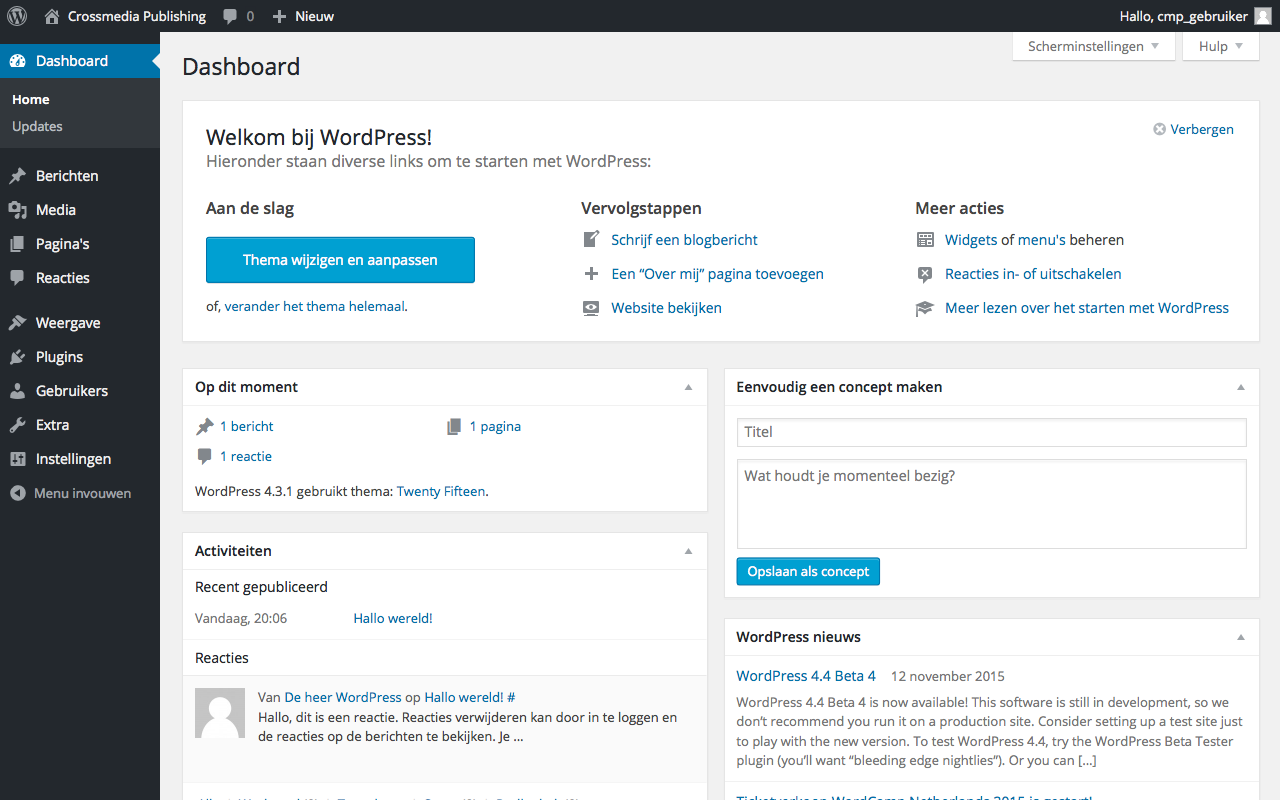
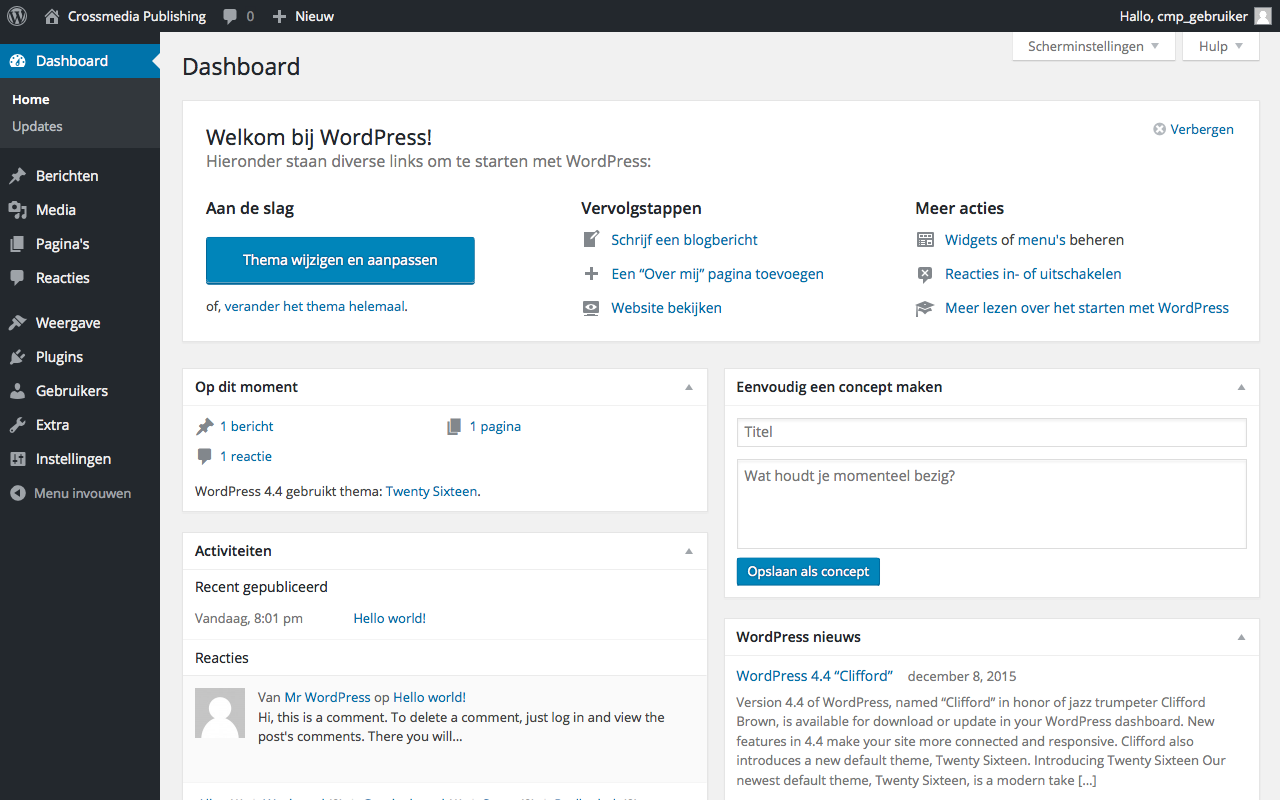
[WIP]

diff --git a/_includes/scripts.html b/_includes/scripts.html
@@ -1,3 +1,3 @@
-<script src="//code.jquery.com/jquery-2.1.4.min.js"></script>
+<script src="//code.jquery.com/jquery-3.0.0-alpha1.min.js"></script>
 <script src="//maxcdn.bootstrapcdn.com/bootstrap/4.0.0-alpha/js/bootstrap.min.js"></script>
 <script src="{{ '/js/main.js' | prepend: site.baseurl }}"></script>

diff --git a/pages/F-A-0_wp_installatie.md b/pages/F-A-0_wp_installatie.md
@@ -29,7 +29,7 @@ Open `Homestead.yaml` met onderstaande opdracht.
 $ artestead edit
 {% endhighlight %}
 
-Verwijder het commentaar (`#`) in de regels onder **Crossmedia Publishing (CMP)**:
+Verwijder de commentaartekens (`#`) in de regels onder **Crossmedia Publishing (CMP)** zodat je dit resultaat krijgt:
 
 {% highlight yaml %}
 {% include_relative _code/wp/installatie/Homestead.00.yaml %}
@@ -42,7 +42,9 @@ Verwijder het commentaar (`#`) in de regels onder **Crossmedia Publishing (CMP)*
 
 ### Opstarten
 
-Start de Vagrant Box op. De eerste keer moet je dit met de optie `--provision` doen zodat de domeinnaam gekoppeld wordt aan de en de map gekoppeld worden
+Start de Vagrant Box op.
+
+De eerste keer moet je dit met de optie `--provision` doen, zodat de domeinnaam `www.cmp.arteveldehogeschool.local` en de map met de broncode aan elkaar gekoppeld worden. Eens die koppeling gebeurd is, mag je de optie `--provision` weglaten.
 
 {% highlight bash %}
 $ artestead up --provision
@@ -58,22 +60,28 @@ vagrant@homestead$ _
 Mappen
 ------
 
-Na het aanmelden op de Vagrant Box gaan we eerst naar de map `Code` die in de thuismap (`~`) staat (als je al in deze map bent mag je `~/` weglaten) met de opdracht `cd` *(Change Directory)*. 
+Na het aanmelden op de Vagrant Box maken we de map `www` voor ons project aan met met de opdracht `mkdir` *(Make Directory)* en de optie `-p` *(parents),* zodat ook de bovenliggende mappen *(Parent Directories)* `Code` en `cmp.arteveldehogeschool.be` aangemaakt worden als die nog niet bestaan.
 
 {% highlight bash %}
-vagrant@homestead$ cd ~/Code/
+vagrant@homestead$ mkdir -p ~/Code/cmp.arteveldehogeschool.local/www/
 {% endhighlight %}
 
-Daarna maken we de map `scripts` aan met de opdracht `mkdir` *(Make Directory)* en de optie `-p` *(parents),* zodat ook de bovenliggende mappen *(Parent Directories)* `www` en `cmp.arteveldehogeschool.be` zo nodig aangemaakt worden:
+Daarna gaan we naar de map met de opdracht `cd` *(Change Directory)*. De **tilde** (`~`) stelt de thuismap voor. Als je al in deze map bent mag je `~/` weglaten. 
+
+Vervolgens maken we de mappen `data` en `scripts` aan.
 
 {% highlight bash %}
-vagrant@homestead$ mkdir -p cmp.arteveldehogeschool.local/www/scripts/
+vagrant@homestead$ cd ~/Code/cmp.arteveldehogeschool.local/www/
+vagrant@homestead$ mkdir data/
+vagrant@homestead$ mkdir scripts/
 {% endhighlight %}
 
-Vervolgens gaan we naar de `www` map:
+Vervolgens gaan we naar de root van ons project en maken een nieuw bestand `README.md` aan met de opdracht `touch`.
+In het nieuwe bestand kunnen we informatie over het project schrijven, zoals bijvoorbeeld wie de auteur is, wat de bedoeling van dit project is en welek stappen we moeten doorlopen om dit project te hosten.
 
 {% highlight bash %}
-vagrant@homestead$ cd cmp.arteveldehogeschool.local/www/
+vagrant@homestead$ cd ~/Code/cmp.arteveldehogeschool.local/
+vagrant@homestead$ touch README.md
 {% endhighlight %}
 
 > ##### **Tip** *:bulb:*{:.pull-left .m-r}
@@ -81,15 +89,23 @@ vagrant@homestead$ cd cmp.arteveldehogeschool.local/www/
 > Gebruik de <kbd>tab</kbd> toets om (bestaande) mapnamen automatisch aan te vullen en de pijltjestoetsen <kbd>up</kbd> of <kbd>down</kbd> om doorheen de CLI-history te gaan!
 {:.alert .alert-info}
 
-Het resultaat (Met het opdracht `vagrant@homestead$ tree -d Code`, maar daarvoor moet je eerst **Tree** installeren met `vagrant@homestead$ sudo apt-get install tree`):
+De **boomstructuur** van mappen en bestanden kan je bekijken met de opdracht `tree`, maar die moet je dan wel eerst installeren met `apt-get` *(Advanced Package Tool)* die via `sudo` *(Super User Do)* uitgevoerd moet worden.
+
+{% highlight bash %}
+vagrant@homestead$ sudo apt-get install tree
+{% endhighlight %}
+
+{% highlight bash %}
+vagrant@homestead$ vagrant@homestead$ tree -d ~/Code
+{% endhighlight %}
 
 > ##### Mappen & Bestanden *:open_file_folder:*{:.pull-left .m-r}
 > ---
 >```
 > cmp.arteveldehogeschool.local/
 > ├── www/
-> │   ├── scripts/
-> │   └── wordpress/
+> │   ├── data/
+> │   └── scripts/
 > └── README.md
 >```
 {:.card .card-block}
@@ -97,26 +113,28 @@ Het resultaat (Met het opdracht `vagrant@homestead$ tree -d Code`, maar daarvoor
 Database
 --------
 
+WordPress gebruikt een **MySQL**-database. We gaan met behulp van een aantal Bash-scripts een databasegebruiker en een database aanmaken op de MySQL-server.
+
+### Scripts en instellingen
+
 > ##### Mappen & Bestanden *:open_file_folder:*{:.pull-left .m-r}
 > ---
 >```
 > cmp.arteveldehogeschool.local/
 > ├── www/
-> │   ├── scripts/
-> │   │   ├── db_backup.sh
-> │   │   ├── db_drop.sh
-> │   │   ├── db_init.sh
-> │   │   ├── db_reset.sh
-> │   │   ├── db_restore.sh
-> │   │   └── settings
-> │   └── wordpress/
+> │   ├── data/
+> │   └── scripts/
+> │       ├── db_backup.sh
+> │       ├── db_drop.sh
+> │       ├── db_init.sh
+> │       ├── db_reset.sh
+> │       ├── db_restore.sh
+> │       └── settings
 > └── README.md
 >```
 {:.card .card-block}
 
-WordPress gebruikt een **MySQL**-database. We gaan met behulp van een aantal Bash-scripts een databasegebruiker en een database aanmaken op de MySQL-server.
-
-### Instellingenbestand
+#### Instellingenbestand
 
 In de map `scripts` maken we een nieuwe bestand `settings` waarin de instellingen komen. Op die manier kunnen de scripts voor andere projecten gebruikt worden, en moet enkel dit bestand aangepast worden. 
 
@@ -125,7 +143,7 @@ vagrant@homestead$ cd ~/Code/cmp.arteveldehogeschool.local/www/scripts/
 vagrant@homestead$ touch settings
 {% endhighlight %}
 
-In het bestand zetten we de basisgegevens voor de databasegebruiker en de database.
+In het bestand `settings` zetten we de basisgegevens voor de databasegebruiker en de database.
 
 {% highlight bash %}
 {% include_relative _code/wp/scripts/settings %}
@@ -136,162 +154,114 @@ In het bestand zetten we de basisgegevens voor de databasegebruiker en de databa
 | `cmp_db_user`     | `cmp_db_password`  | `cmp_arteveldehogeschool_be` |
 {:.table}
 
-### Initialiseren en verwijderen
+#### Initialiseren en verwijderen
 
-#### Initialisatiescript
+##### Initialisatiescript
+
+Dit script maakt een gebruiker en een database in MySQL.
 
 {% highlight bash %}
 vagrant@homestead$ cd ~/Code/cmp.arteveldehogeschool.local/www/scripts/
 vagrant@homestead$ touch db_init.sh && chmod +x db_init.sh
 {% endhighlight %}
 
-Maakt een gebruiker en een database.
+In het bestand `db_init.sh`:
 
 {% highlight bash %}
 {% include_relative _code/wp/scripts/db_init.sh %}
 {% endhighlight %}
 
-> ##### **Opgelet** *:warning:*{:.pull-left .m-r}
-> ---
-> Als het script op *&nbsp;*{:.fa .fa-windows}Windows bewerkt werd, moet er mogelijk eerst nog een eenmalige `dos2unix` op het bestand uitgevoerd worden, voor het script correct uitgevoerd kan worden.
-{:.alert .alert-warning}
+##### Verwijderscript
 
-{% highlight bash %}
-vagrant@homestead$ cd ~/Code/cmp.arteveldehogeschool.local/www/scripts/
-vagrant@homestead$ dos2unix db_init.sh
-{% endhighlight %}
-
-Uitvoeren:
-
-{% highlight bash %}
-vagrant@homestead$ cd ~/Code/cmp.arteveldehogeschool.local/www/scripts/
-vagrant@homestead$ ./db_init.sh
-{% endhighlight %}
-
-#### Verwijderscript
+Dit script verwijdert de database en alle gegevens.
 
 {% highlight bash %}
 vagrant@homestead$ cd ~/Code/cmp.arteveldehogeschool.local/www/scripts/
 vagrant@homestead$ touch db_drop.sh && chmod +x db_drop.sh
 {% endhighlight %}
 
-Verwijdert de database.
+In het bestand `db_drop.sh`:
 
 {% highlight bash %}
 {% include_relative _code/wp/scripts/db_drop.sh %}
 {% endhighlight %}
 
-> ##### **Opgelet** *:warning:*{:.pull-left .m-r}
-> ---
-> Als het script op *&nbsp;*{:.fa .fa-windows}Windows bewerkt werd, moet er mogelijk eerst nog een eenmalige `dos2unix` op het bestand uitgevoerd worden, voor het script correct uitgevoerd kan worden.
-{:.alert .alert-warning}
+##### Resetscript
 
-{% highlight bash %}
-vagrant@homestead$ cd ~/Code/cmp.arteveldehogeschool.local/www/scripts/
-vagrant@homestead$ dos2unix db_drop.sh
-{% endhighlight %}
-
-Uitvoeren:
-
-{% highlight bash %}
-vagrant@homestead$ cd ~/Code/cmp.arteveldehogeschool.local/www/scripts/
-vagrant@homestead$ ./db_drop.sh
-{% endhighlight %}
-
-#### Resetscript
+Dit script voert eerst het verwijderscript uit en daarna het initialisatiescript.
 
 {% highlight bash %}
 vagrant@homestead$ cd ~/Code/cmp.arteveldehogeschool.local/www/scripts/
 vagrant@homestead$ touch db_reset.sh && chmod +x db_reset.sh
 {% endhighlight %}
 
-Voert eerst het verwijderscript uit en daarna het initialisatiescript.
+In het bestand `db_reset.sh`:
 
 {% highlight bash %}
 {% include_relative _code/wp/scripts/db_reset.sh %}
 {% endhighlight %}
 
-> ##### **Opgelet** *:warning:*{:.pull-left .m-r}
-> ---
-> Als het script op *&nbsp;*{:.fa .fa-windows}Windows bewerkt werd, moet er mogelijk eerst nog een eenmalige `dos2unix` op het bestand uitgevoerd worden, voor het script correct uitgevoerd kan worden.
-{:.alert .alert-warning}
+#### Backuppen en terugzetten
 
-{% highlight bash %}
-vagrant@homestead$ cd ~/Code/cmp.arteveldehogeschool.local/www/scripts/
-vagrant@homestead$ dos2unix db_reset.sh
-{% endhighlight %}
+##### Backupscript
 
-Uitvoeren:
-
-{% highlight bash %}
-vagrant@homestead$ cd ~/Code/cmp.arteveldehogeschool.local/www/scripts/
-vagrant@homestead$ ./db_reset.sh
-{% endhighlight %}
-
-### Backuppen en terugzetten
-
-#### Backupscript
+Dit script maakt een backup van de database in de map `scripts/dumps/`.
 
 {% highlight bash %}
 vagrant@homestead$ cd ~/Code/cmp.arteveldehogeschool.local/www/scripts/
 vagrant@homestead$ touch db_backup.sh && chmod +x db_backup.sh
 {% endhighlight %}
 
+In het bestand `db_backup.sh`:
+
 {% highlight bash %}
 {% include_relative _code/wp/scripts/db_backup.sh %}
 {% endhighlight %}
 
-> ##### **Opgelet** *:warning:*{:.pull-left .m-r}
-> ---
-> Als het script op *&nbsp;*{:.fa .fa-windows}Windows bewerkt werd, moet er mogelijk eerst nog een eenmalige `dos2unix` op het bestand uitgevoerd worden, voor het script correct uitgevoerd kan worden.
-{:.alert .alert-warning}
+##### Restorescript
 
-{% highlight bash %}
-vagrant@homestead$ cd ~/Code/cmp.arteveldehogeschool.local/www/scripts/
-vagrant@homestead$ dos2unix db_backup.sh
-{% endhighlight %}
-
-Uitvoeren:
-
-{% highlight bash %}
-vagrant@homestead$ cd ~/Code/cmp.arteveldehogeschool.local/www/scripts/
-vagrant@homestead$ ./db_backup.sh
-{% endhighlight %}
-
-#### Restorescript
-
-De laatste backup terugzetten.
+Dit script herstelt de database op basis van de laatste backup in de map `scripts/dumps/`.
 
 {% highlight bash %}
 vagrant@homestead$ cd ~/Code/cmp.arteveldehogeschool.local/www/scripts/
 vagrant@homestead$ touch db_restore.sh && chmod +x db_restore.sh
 {% endhighlight %}
 
+In het bestand `db_restore.sh`:
+
 {% highlight bash %}
 {% include_relative _code/wp/scripts/db_restore.sh %}
 {% endhighlight %}
 
+### Installatie voorbereiden
+
+Voor we WordPress kunnen installeren moet er een databasegebruiker en een database aangemaakt worden. Dit doen we met het intialisatiescript dat we eerder gemaakt hebben.
+
+#### Windows
+
 > ##### **Opgelet** *:warning:*{:.pull-left .m-r}
 > ---
-> Als het script op *&nbsp;*{:.fa .fa-windows}Windows bewerkt werd, moet er mogelijk eerst nog een eenmalige `dos2unix` op het bestand uitgevoerd worden, voor het script correct uitgevoerd kan worden.
+> Als de scripts op *&nbsp;*{:.fa .fa-windows}Windows bewerkt werden, moet er mogelijk eerst nog eenmalig een `dos2unix` op de bestanden uitgevoerd worden. Dit zal de Windows-regeleinden vervangen door Unix-regeleinden. Windows-regeleiden zorgen voor fouten bij de uitvoering van het script.
 {:.alert .alert-warning}
 
 {% highlight bash %}
 vagrant@homestead$ cd ~/Code/cmp.arteveldehogeschool.local/www/scripts/
-vagrant@homestead$ dos2unix db_restore.sh
+vagrant@homestead$ dos2unix *
 {% endhighlight %}
 
-Uitvoeren:
+#### Database initialiseren
+
+Voor we gaan installeren gaan we de database initialiseren:
 
 {% highlight bash %}
 vagrant@homestead$ cd ~/Code/cmp.arteveldehogeschool.local/www/scripts/
-vagrant@homestead$ ./db_restore.sh
+vagrant@homestead$ ./db_init.sh
 {% endhighlight %}
 
 Broncode
 --------
 
-We gaan versie `4.3` installeren in de map `~/Code/cmp.arteveldehogeschool.local/www/wordpress/`
+We gaan laatste versie van WordPress installeren in de map `~/Code/cmp.arteveldehogeschool.local/www/wordpress/`
 
 Deze map is in [Artestead][artestead] al automatisch gekoppeld aan de domeinnaam [www.cmp.arteveldehogeschool.local](http://www.cmp.arteveldehogeschool.local)
 
@@ -300,6 +270,7 @@ Deze map is in [Artestead][artestead] al automatisch gekoppeld aan de domeinnaam
 >```
 > cmp.arteveldehogeschool.local/
 > ├── www/
+> │   ├── data/
 > │   ├── scripts/
 > │   └── wordpress/
 > │       ├── wp-admin/
@@ -390,7 +361,6 @@ Nadat de configuratie voltooid is, kan de installatie beginnen.
 |    **E-mailadres** | `cmp@arteveldehs.be`    |
 {:.table .table-striped}
 
-
 ### Manier 1 (via browser)
 
 ![Installatieproces in de browser 00]({{ site.baseurl }}/images/installatie/installatieproces.00.png "Installatieproces in de browser"){:.screenshot}
@@ -398,7 +368,6 @@ Nadat de configuratie voltooid is, kan de installatie beginnen.
 ![Installatieproces in de browser 01]({{ site.baseurl }}/images/installatie/installatieproces.01.png "Installatieproces in de browser"){:.screenshot}
 
 ![Installatieproces in de browser 02]({{ site.baseurl }}/images/installatie/installatieproces.02.png "Installatieproces in de browser"){:.screenshot}
-
 
 ### Manier 2 (via WP-CLI) 
 
@@ -410,7 +379,11 @@ vagrant@homestead$ wp core install --url=www.cmp.arteveldehogeschool.local --tit
 Inloggen
 --------
 
-En inloggen met de WP-gebruikersgegevens.
+Na de installatie ziet de **frontoffice** (wat bezoekers te zien krijgen) website er zo uit:
+
+![Website]({{ site.baseurl }}/images/installatie/website.png "Website"){:.screenshot}
+
+We kunnen inloggen op de **backoffice** (wat beheerders te zien krijgen) met de WP-gebruikersgegevens.
 
 |               Veld | Waarde           |
 |-------------------:|------------------|
@@ -424,6 +397,7 @@ Ga naar [www.cmp.arteveldehogeschool.local/wp-admin/](http://www.cmp.arteveldeho
 
 ![WordPress Dashboard]({{ site.baseurl }}/images/installatie/inloggen.01.png "WordPress Dashboard"){:.screenshot}
 
+{% comment %}
 WordPress Netwerk van sites
 ---------------------------
 
@@ -454,6 +428,8 @@ Sla het bestand op en herlaadt Sitebeheer in de browser.
 Onder **Extra** → **Netwerk instellen** kan je **submappen** inschakelen. Je krijgt de nodige aanpassingen te zien.
 
 ![Netwerk Instellen]({{ site.baseurl }}/images/installatie/netwerk_instellen.png "Netwerk Instellen"){:.screenshot}
+
+{% endcomment %}
 
 
 {% comment %}

diff --git a/pages/F-0-0_wp.md b/pages/F-0-0_wp.md
@@ -1,7 +1,7 @@
 ---
 layout    : page
 title     : WordPress
-title_long: WordPress 4.3
+title_long: WordPress 4.4
 permalink : wp/
 published : true
 tags      :
